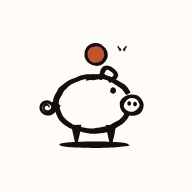
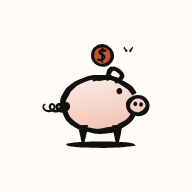
Add a $ to the coin, a spring tail and a pink wash
Three asks, plus the consequence of one of them.

The coin carries a drawn $ now -- S and bar, same nib. Ink on sienna
rather than a knockout in the paper colour: ink clears ~4.3:1 there
against the knockout's ~3.9:1, and it keeps the drawing to two inks. It
is full-detail only; at 64px the coin is about 20px across and a glyph
inside it is mush.

The tail is a spring rather than a flat spiral -- a prolate cycloid,
which is what a coil looks like from the side. Its loops only close
while PITCH * 2pi < 2 * RAD (3.4 and 12: 21 < 24, three crossings).
Raise the pitch and the curve relaxes into a wave, with no error and
nothing to catch it but looking at the pixels.

The body carries a pink wash. It is a tint of the sienna rather than a
true pink, which would be the drawing's third colour. One linearGradient
in userSpaceOnUse spans BOTH the body and the snout -- two
objectBoundingBox gradients each restart inside their own shape and the
overlap shows a seam. The fill shapes are inset 6 at jitter 0.02 rather
than blob()'s default 0.05, which was enough wobble to fringe pink
outside the ink outline.

And the consequence: the spring moved the art's left edge from 110 to
70.6, taking the centre with it. FRAME and ART_CENTRE are now measured
from getBBox() rather than estimated -- bbox 336.1 x 325.8 about
(238.7, 259.3), furthest corner 234 out, so any is 1.22 and maskable is
200/234 = 0.85. Carrying the old numbers over by eye would have been
wrong in a way nothing tests.
[…]

Changed region(s): [[0.1875, 0.2188, 0.7812, 0.7812]]

diff --git a/CLAUDE.md b/CLAUDE.md
@@ -18,7 +18,8 @@ so it inverts into a pale puddle on dark) and the **maskable icon is a separate 
 scale (one file cannot serve both purposes — the full-bleed art clips under Android's circular
 mask). `--loader-ink` is a new light/dark pair, deliberately not `--on-surface`. The serif did
 NOT come along: Newsreader is still the masthead's alone. **Same day, further passes:** the app icon is now the **piggy bank taking a
-coin**, not the bars — the tile's job is to say *money* to someone who has never opened the app,
+coin** — `$` on the coin, a spring tail, and a pink wash inside the body (one `userSpaceOnUse`
+gradient across body and snout, or the overlap seams) — not the bars — the tile's job is to say *money* to someone who has never opened the app,
 and the loader keeps the bars (§3.15 has the table; do not unify them back). The capture
 sheet's parse wait prints a **receipt** from the same nib (§3.8) — a different subject on
 purpose, since it names what is being waited on. It **replaces** the send-arrow spinner;
@@ -537,17 +538,28 @@ back — that argument has been had and this table is the answer.
   leaves the receipt complete and still.
 - **Copy is `Adding it up`** (loader) and **`Reading it`** (capture), both in the body face. ⚠ **Not Newsreader** — the serif is the
   masthead's alone (§3.2), and the design draft that used it there was not carried over.
-- **Icon framing — two scales, neither of them round or interchangeable** (`FRAME` in
-  `tools/ink/emit.mjs`). The pig's bbox is 298 × 321 about **(259, 261)**, so its furthest point
-  is ~225 units from centre in a 512 box.
-  - `any` is full-bleed at **1.22** → art at ~71% × 77% of the tile. ⚠ At 1.0 the pig floats in
+- **Icon framing — `FRAME` and `ART_CENTRE` in `tools/ink/emit.mjs` are MEASURED, not chosen.**
+  ⚠ **Re-derive both after any change to the drawing** — ask the browser for the art group's
+  `getBBox()`, don't estimate. The spring tail moved the left edge from 110 to **70.6** and took
+  the centre with it. Current: bbox **336.1 × 325.8** about **(238.7, 259.3)**, furthest bbox
+  corner **234** units from that centre.
+  - `any` is full-bleed at **1.22** → art at ~80% × 78% of the tile. ⚠ At 1.0 the pig floats in
     a large empty square and becomes a dot on a home screen; the art's own bounds are not the
     tile's composition.
-  - `maskable` is **0.86** → furthest point ~193 against the 205-unit safe radius. ⚠ **Not
-    0.76** — that was the bar mark's number, and the pig is a rounder silhouette that can sit
-    larger. Copying it across would have shrunk the art for nothing.
-- **The coin never simplifies away.** It is the only colour and the only reason the tile reads
-  as money rather than as an animal.
+  - `maskable` is **0.85** → furthest corner ~199 inside the 205-unit safe radius. ⚠ It is
+    `200 / maxR` for **this** drawing, not a constant: the bar mark's was 0.76, the pig's earlier
+    silhouette 0.86.
+- **The coin never simplifies away.** It carries a drawn **`$`** (S plus bar, same nib) and is
+  the only saturated colour — the only reason the tile reads as money rather than as an animal.
+  ⚠ The `$` is **ink on sienna** (~4.3:1), not a knockout in the paper colour (~3.9:1), which
+  also keeps the drawing to two inks. It is `d: 2` only; at 64px the coin is ~20px and a glyph
+  inside it is mush.
+- **The pink wash is ICON-ONLY, and it is a tint of the sienna, not a new hue** — a true pink
+  would be the drawing's third colour. ⚠ **One `linearGradient` in `userSpaceOnUse` spans BOTH
+  the body and the snout.** Two `objectBoundingBox` gradients each restart inside their own
+  shape, so the overlap shows a seam. ⚠ The fill shapes are inset 6 units at jitter **0.02**,
+  not `blob()`'s default 0.05 — at 5% the fill's own wobble pushes past the outline's inner edge
+  and fringes pink outside the drawing. The loader and the capture receipt stay two-colour.
 - ⚠ **The body arc STOPS either side of the snout** (`GAP = 0.36` rad in `pig()`), it does not
   run behind it. Drawn as a full ring, the body's right edge cuts a chord straight across the
   snout; the snout has no fill to hide it, and giving it one would tie the drawing to a single
@@ -558,8 +570,10 @@ back — that argument has been had and this table is the answer.
   merged into one black mass at 40px; and their tops sit at the body's **outline** (y ≈ 358 at
   those x), not inside it, because the body has no fill and a leg starting in the belly shows
   through as a black skirt.
-- **The tail is a spiral, not a loop** — an Archimedean curl tightening over ~2.15 turns, drawn
-  as one tapering stroke. Its first two points sit inside the body so it reads as attached.
+- **The tail is a spring** — a prolate cycloid, which is what a coil looks like from the side.
+  ⚠ **The loops only close while `PITCH × 2π < 2 × RAD`** (3.4 and 12: 21 < 24, three crossings).
+  Raise the pitch and the curve silently relaxes into a wave with no error and no visual warning
+  beyond "the tail looks wrong". Its first point sits inside the body so it reads as attached.
 - **`icon-64.png` is the tab favicon**, drawn at `d: 1` (no tail, eye or nostrils; heavier nib).
   ⚠ **Downscaling the 192 for a 16–32px tab renders grey mush** — the detail that reads at 192
   is exactly what cannot survive there.
@@ -759,10 +773,15 @@ recorded here so they are not re-proposed as new.
    are derived from the pig's own bounds and are not reusable constants.
 9. **`icon-64.png` exists because the tab favicon is 16–32px**, where the 192 downscales into
    mush.
-9a. **The pig's anatomy is fixed by three rules, not by taste** (2026-09-04, fourth pass): the
-   body arc stops either side of the snout rather than cutting through it; the legs are filled
-   wedges starting at the outline; the tail is a spiral. All three are in §3.15 with the
-   reasoning, because each one is a thing that looks arbitrary until it is broken.
+9a. **The pig's anatomy is fixed by rules, not by taste** (2026-09-04, fourth and fifth passes):
+   the body arc stops either side of the snout rather than cutting through it; the legs are
+   filled wedges starting at the outline; the tail is a **spring** whose loops close only while
+   `PITCH × 2π < 2 × RAD`; the coin carries a drawn `$` in ink; and a **pink wash** — one
+   `userSpaceOnUse` gradient across body and snout — fills the body. All in §3.15, because each
+   one looks arbitrary until it is broken.
+9b. **`FRAME` and `ART_CENTRE` are measured from `getBBox()`, every time the drawing changes.**
+   The spring tail moved the art's left edge by 40 units; scales carried over by eye would have
+   been wrong in a way nothing tests.
 10. **The capture sheet's parse wait got the receipt** (2026-09-04, same day). A different
    subject from the loader's bars, deliberately: it names what is being waited on. It
    **replaces** the send-arrow spinner rather than joining it, and reduced motion swaps them
@@ -829,7 +848,9 @@ validation suite.
 - `defer` on the Chart.js tag or the `lib/alfred-core.js` tag — both are called into at module scope by the inline script, which runs first
 - Parsing a row's date with `new Date(row.Date)` or `new Date(row.Date + 'T00:00:00')` (§1, §3.12)
 - Interpolating sheet text into `innerHTML` without `escapeHtml()` (§3.6)
-- Stroking any part of the marker mark, hand-editing its path data, giving it a second accent colour, or adding the ground shadow back to the loader or the capture receipt (§3.15)
+- Stroking any part of the marker mark, hand-editing its path data, or adding the ground shadow back to the loader or the capture receipt (§3.15)
+- Giving the loader or the capture receipt a second colour, or spreading the icon's pink wash to either of them — the wash is icon-only and is a tint of the sienna, not a third hue (§3.15)
+- Reusing `FRAME`'s numbers after changing the drawing without re-measuring `getBBox()` (§3.15)
 - Running the send-arrow spinner and the capture receipt at the same time, or giving the receipt a paper fill (§3.8, §3.15)
 - Declaring the full-bleed `any` icon as `maskable`, or dropping the separate maskable files (§3.11)
 - Any new backend endpoints, LLM calls, or paid services
